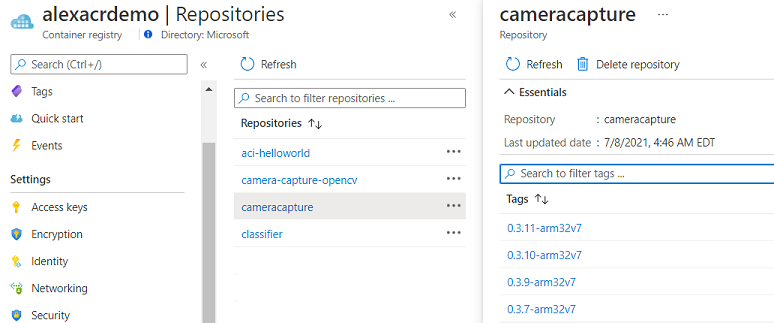
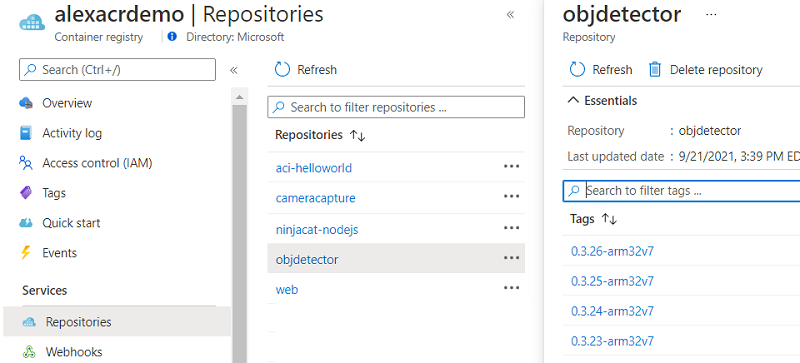
fixing python modules

diff --git a/modules/CameraCapture/app/main.py b/modules/CameraCapture/app/main.py
@@ -49,13 +49,13 @@ class HubManager(object):
         '''
         self.messageTimeout = messageTimeout
         self.client = IoTHubModuleClient.create_from_edge_environment()
-        self.client.set_option("messageTimeout", self.messageTimeout)
-        self.client.set_option("product_info", "edge-camera-capture")
-        if verbose:
-            self.client.set_option("logtrace", 1)  # enables MQTT logging
+        #self.client.set_option("messageTimeout", self.messageTimeout)
+        #self.client.set_option("product_info", "edge-camera-capture")
+        #if verbose:
+        #    self.client.set_option("logtrace", 1)  # enables MQTT logging
 
     def send_message_to_output(self, event, outputQueueName):
-        self.client.send_message_to_output(outputQueueName, event)
+        self.client.send_message_to_output(event, outputQueueName)
         global SEND_CALLBACKS
         SEND_CALLBACKS += 1
 

diff --git a/modules/CameraCapture/app/ImageServer.py b/modules/CameraCapture/app/ImageServer.py
@@ -1,5 +1,6 @@
 # Base on work from https://github.com/Bronkoknorb/PyImageStream
-import trollius as asyncio
+#import trollius as asyncio
+import asyncio
 import tornado.ioloop
 import tornado.web
 import tornado.websocket

diff --git a/README.md b/README.md
@@ -1,7 +1,7 @@
 # Custom Vision + Azure IoT Edge on a Raspberry Pi 3
 
 
-This is a sample showing how to deploy a Custom Vision model to a Raspberry Pi 3 device running Azure IoT Edge. Custom Vision is an image classifier that is trained in the cloud with your own images. IoT Edge gives you the possibility to run this model next to your cameras, where the video data is being generated. You can thus add meaning to your video streams to detect road traffic conditions, estimate wait lines, find parking spots, etc. while keeping your video footage private, lowering your bandwidth costs and even running offline.
+This is a sample showing how to deploy a Custom Vision model to a Raspberry Pi 3 device running Azure IoT Edge. Custom Vision is an image classifier and object detector that is trained in the cloud with your own images. IoT Edge gives you the possibility to run this model next to your cameras, where the video data is being generated. You can thus add meaning to your video streams to detect road traffic conditions, estimate wait lines, find parking spots, etc. while keeping your video footage private, lowering your bandwidth costs and even running offline.
 
 The project consists of the custom vision model deployed on Raspberry PI and detecting objects visible through the camera. 
 
@@ -50,7 +50,7 @@ The project consists of the custom vision model deployed on Raspberry PI and det
 
 1. Export model as **Docker** file in zip format as explained in the [tutorial](https://docs.microsoft.com/en-us/azure/cognitive-services/custom-vision-service/export-your-model#export-your-model).
 
-1. Extract files from archive to the folder **modules\classifier** but do not override `app.py` and `Dockerfile`.
+1. Extract files from archive to the folder **modules\ObjDetector** but do not override `app.py` and `Dockerfile`. Those files has some customization.
 
 
 
@@ -102,7 +102,7 @@ BLOB_KEY=<blob account key>
 
 1.To properly configure `/etc/aziot/config.toml` you need to register your IoT device in Iot Hub. The following [tutorial](https://docs.microsoft.com/en-us/azure/iot-edge/how-to-register-device?view=iotedge-2020-11&tabs=azure-portal) explained the registration process with a symmetric key. From the Azure portal create an IoT Hub and add a new Iot Edge device. Provide a unique name and keep all default settings and generated keys. Copy primary key into `config.toml`. 
 
-1. Restart your device and wait for status update of device on the IoT Hub. You also can execute command "iotedge list" to monitor process. Please pay attention for the version of `azureiotedge-hub` and `azureiotedge-agent`you use. Version 1.0.0 having an issue and you can update that to version 1.2.2. You can use runtime settings as explained in following [tutorial](https://docs.microsoft.com/en-us/azure/iot-edge/how-to-update-iot-edge?view=iotedge-2020-11&tabs=windows#update-a-specific-tag-image)   
+1. Restart your device and wait for status update of device on the IoT Hub. You also can execute command "iotedge list" to monitor process. Please pay attention for the version of `azureiotedge-hub` and `azureiotedge-agent`you use. Version 1.0.0 having an issue and you can update that to version 1.2.3. You can use runtime settings as explained in following [tutorial](https://docs.microsoft.com/en-us/azure/iot-edge/how-to-update-iot-edge?view=iotedge-2020-11&tabs=windows#update-a-specific-tag-image)   
 
 1. Finlay you should have your IoTEdge modules running on RPi without errors. 
     
@@ -116,10 +116,11 @@ BLOB_KEY=<blob account key>
 
 1. From the VS code context menu select command `Build and Publish Iot Edge Solution`. Then you can use command palette `Azure IoT Edge: Create deployment for a single device` and choose your device and file `config\deployment.arm32v7.json`.
 
->If you lost with deployment follow the steps in [tutorial](https://docs.microsoft.com/en-us/azure/iot-edge/tutorial-deploy-custom-vision?view=iotedge-2020-11#deploy-modules-to-device)
+    >If you lost with deployment follow the steps in [tutorial](https://docs.microsoft.com/en-us/azure/iot-edge/tutorial-deploy-custom-vision?view=iotedge-2020-11#deploy-modules-to-device)
 
-1. As result of deployment your RPi should contain 4 modules (`azureiotedge-agent`, `azureiotedge-hub`, `camera-capture`, `classifier`). You can monitor modules from IoT Hub or from the SSH console by command `iotedge list`. Remember that some images are quite heavy and require time to be downloaded from ACR to PI.
+1. As result of deployment your RPi should contain 4 modules (`azureiotedge-agent`, `azureiotedge-hub`, `camera-capture`, `ObjDetector`). You can monitor modules from IoT Hub or from the SSH console by command `iotedge list`. Remember that some images are quite heavy and require time to be downloaded from ACR to PI.
 
+    ![service list](/Docs/list.png)
 
 ## Setting up the scene
 
@@ -135,7 +136,7 @@ BLOB_KEY=<blob account key>
 
 ## Monitor and diagnose applications.
 
-1. From the SSH console you can use commands like `iotedge logs camera-capture` or `iotedge logs classifier` to monitor errors and issues. Correct output of the classifier should looks as following:
+1. From the SSH console you can use commands like `iotedge logs camera-capture` or `iotedge logs ObjDetector` to monitor errors and issues. Correct output of the detector should looks as following:
 
     ![output](/Docs/rp-result.png)
 
@@ -145,7 +146,7 @@ BLOB_KEY=<blob account key>
 
     ![local website](/Docs/fruits-sm.png)
 
-1. Finlay if the classification is completed successfully the boundaries will be created on the image and analyzed images will be uploaded to the storage account you set up above.
+1. Finlay if the detection completed successfully the boundaries will be created on the image and analyzed images will be uploaded to the storage account you set up above.
 
     ![analyzed](/Docs/analyzed-group.png)
 
